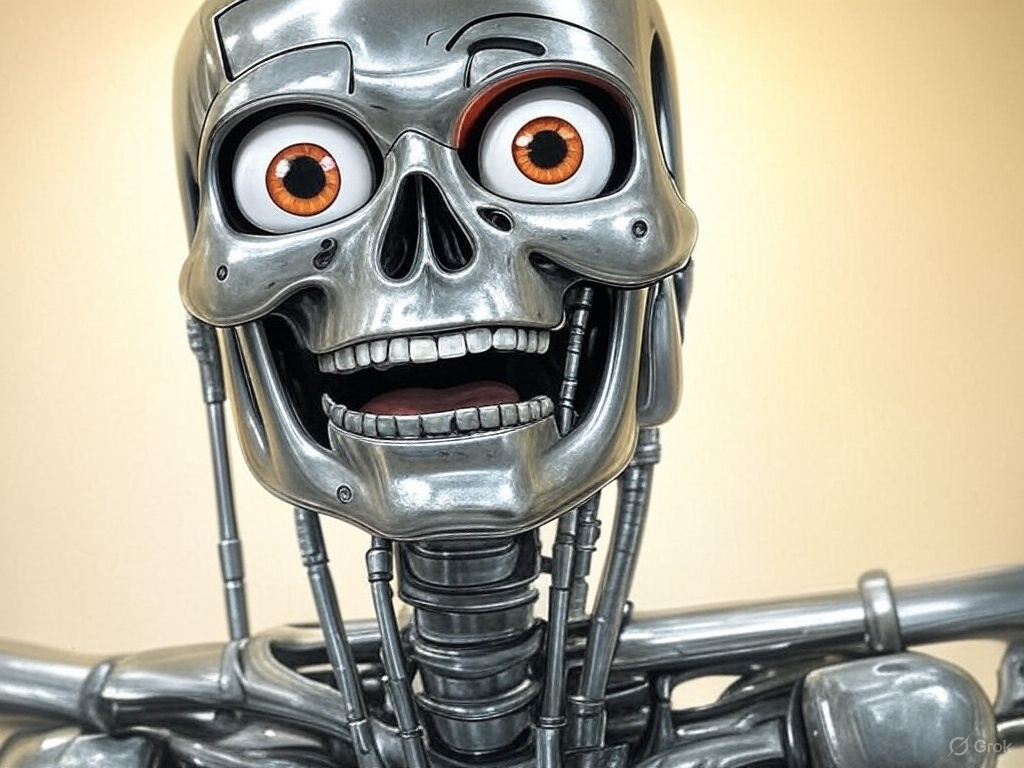
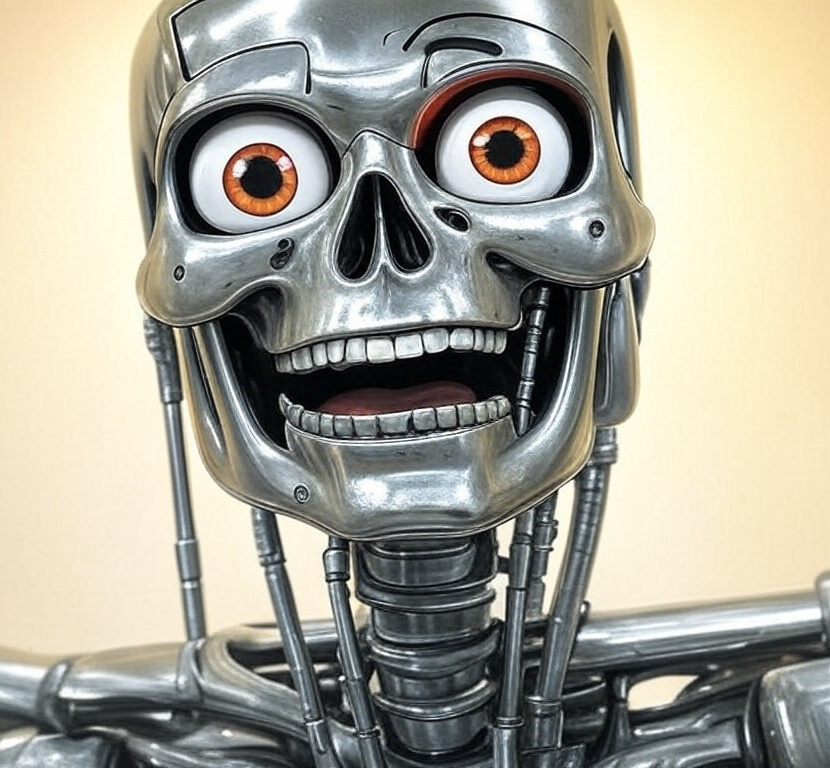
fix popup

diff --git a/CLAUDE.md b/CLAUDE.md
@@ -2,7 +2,7 @@
 
 A client library that integrates into browser games for debugging and visualization. This allows AI to SEE the game it's working on in real time!
 
-![Happy Face](happy.jpg)
+<img src="happy.jpg" alt="Happy Face" width="50%">
 
 ## Version 1.1.0
 This is version 1.1.0 of the Vibe Eyes Client, which adds support for:

diff --git a/README.md b/README.md
@@ -4,7 +4,7 @@ A lightweight client library to integrate browser games with the [Vibe Eyes MCP 
 
 This allows AI to SEE the game it's working on in real time!
 
-![Happy Face](happy.jpg)
+<img src="happy.jpg" alt="Happy Face" width="50%">
 
 ## Features
 
